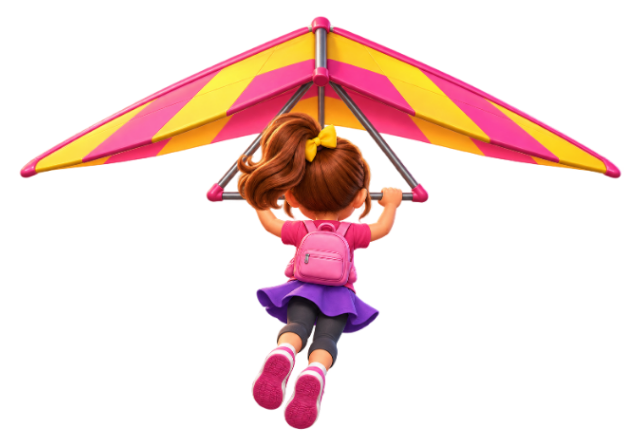
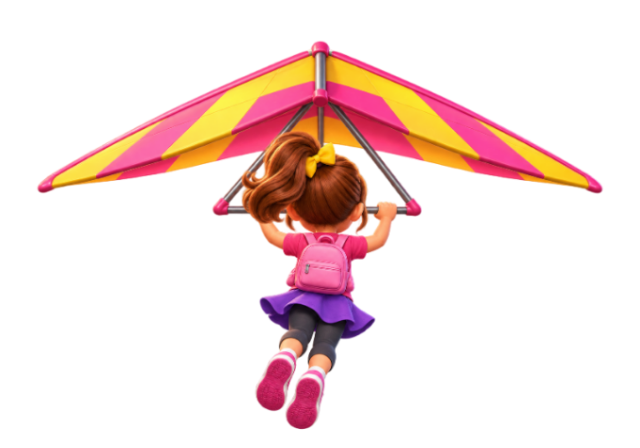
runner: turbo pickup (5 s super speed, every coin double, streaks and glow), jungle liana swings over a ravine in two stretches, no more sun shafts in the jungle, hero cards run on the level's floor, the girl a touch smaller
Claude-Session: https://claude.ai/code/session_01JtiWPMo1Ad6AaJa51j3FBT

Changed region(s): [[0.0312, 0.0312, 0.9688, 0.9688], [0.375, 0.8438, 0.4062, 0.9062]]

diff --git a/assets/games/jungle/renderer.js b/assets/games/jungle/renderer.js
@@ -14,27 +14,28 @@ import {CAMERA,travel,project,itemDepth,sceneryDepth} from './world.js';
 
 export const HEROES=['boy','girl'];
 export const LEVELS={
- jungle:{scenes:['jungle-watervallen','jungle-tempel','jungle-avond'],night:scene=>scene==='jungle-avond',shoulder:'grass',sky:['#83d4db','#082936'],rays:true,dust:'#d9c39b',
+ jungle:{scenes:['jungle-watervallen','jungle-tempel','jungle-avond'],night:scene=>scene==='jungle-avond',shoulder:'grass',sky:['#83d4db','#082936'],rays:false,sun:true,dust:'#d9c39b',air:{kind:'swing',windows:[[.30,.41],[.70,.81]]},
   obstacles:{log:'obstacle-log',rock:'obstacle-rock'},card:'collectible-jungle-card',cardId:'jungle-leaf',pebbles:true,flowers:true,dapples:true,
   props:[{name:'scenery-fern',spacing:3.2,x:[1.78,1.98],w:[1.5,2.1]},{name:'scenery-tree',spacing:6.4,offset:.7,x:[3.15,3.65],w:[4.5,5.5]}]},
  stad:{scenes:['city-day'],night:()=>false,shoulder:'pavement',sky:['#9fd0f5'],rays:false,dust:'#c9c9cf',
   obstacles:{log:'obstacle-barrier',rock:'obstacle-cone'},card:'collectible-city-card',cardId:'city-star',pebbles:false,flowers:false,dapples:false,
   props:[{name:'scenery-lamp',spacing:4.8,x:[1.85,1.85],w:[1.4,1.4]},{name:'scenery-building',spacing:5.6,offset:1.1,x:[4.2,5.4],w:[6.5,9]},{name:'scenery-tree-city',spacing:9.6,offset:2.9,x:[2.6,2.9],w:[2.6,3.2]}]},
- lucht:{scenes:['sky-day'],night:()=>false,shoulder:'cloud',sky:['#69b4f2'],rays:true,dust:null,glide:true,
+ lucht:{scenes:['sky-day'],night:()=>false,shoulder:'cloud',sky:['#69b4f2'],rays:true,sun:true,dust:null,glide:true,air:{kind:'glide',windows:[[.22,.46],[.66,.88]]},
   obstacles:{log:'obstacle-bird',rock:'obstacle-storm'},card:'collectible-sky-card',cardId:'sky-feather',pebbles:false,flowers:false,dapples:false,
   props:[{name:'scenery-cloud',spacing:3.6,x:[2.2,3.4],w:[2.4,4],float:true},{name:'scenery-balloon',spacing:15,offset:3,x:[3.6,5.2],w:[2.1,2.9],float:true,lift:[1.8,3.4]},{name:'scenery-island',spacing:14,offset:7,x:[4,6],w:[5,7],float:true,lift:[-.4,.4]}]},
 };
-// Where the sky level lets go of the cloud path (fractions of the run, by distance).
-export const GLIDE_WINDOWS=[[.22,.46],[.66,.88]];
+// Stretches where the path lets go (fractions of the run, by distance): the sky
+// level hands the child a glider, the jungle a liana to swing on.
 export const progress=s=>s.distance/(s.duration*(s.easy?.26:.31));
-export const isGliding=(level,s)=>!!LEVELS[level]?.glide&&GLIDE_WINDOWS.some(([a,b])=>progress(s)>=a&&progress(s)<b);
+export const airborne=(level,s)=>{const air=LEVELS[level]?.air;if(!air)return null;const p=progress(s);return air.windows.some(([a,b])=>p>=a&&p<b)?air.kind:null;};
+export const isGliding=(level,s)=>!!airborne(level,s);
 
 // Every painting a level + hero needs, and what stands in for one that is not
 // there yet (the jungle set and the boy always exist).
 const FALLBACK={'city-day':'jungle-tempel','sky-day':'jungle-watervallen','obstacle-barrier':'obstacle-log','obstacle-cone':'obstacle-rock','obstacle-bird':'obstacle-log','obstacle-storm':'obstacle-rock','scenery-lamp':'scenery-tree','scenery-building':'scenery-tree','scenery-tree-city':'scenery-tree','scenery-cloud':'scenery-fern','scenery-balloon':'scenery-tree','scenery-island':'scenery-bridge','collectible-city-card':'collectible-jungle-card','collectible-sky-card':'collectible-jungle-card'};
-export function assetNames(level,hero){const L=LEVELS[level];const names=new Set([...L.scenes,L.obstacles.log,L.obstacles.rock,L.card,'collectible-coin',...L.props.map(p=>p.name)]);for(const f of ['run-01','run-02','run-03','run-04','jump','flip','glide'])names.add(`hero-${hero}-${f}`);for(const n of [...names])if(FALLBACK[n])names.add(FALLBACK[n]);if(hero!=='boy')for(const f of ['run-01','run-02','run-03','run-04','jump','flip','glide'])names.add(`hero-boy-${f}`);names.add('hero-boy-jump');names.add('hero-boy-run-02');names.add('hero-girl-run-02');for(const l of Object.values(LEVELS))names.add(l.scenes[0]);names.add('hero-boy-portrait');names.add('hero-girl-portrait');return [...names];}
+export function assetNames(level,hero){const L=LEVELS[level];const names=new Set([...L.scenes,L.obstacles.log,L.obstacles.rock,L.card,'collectible-coin',...L.props.map(p=>p.name)]);for(const f of ['run-01','run-02','run-03','run-04','jump','flip','glide','swing'])names.add(`hero-${hero}-${f}`);for(const n of [...names])if(FALLBACK[n])names.add(FALLBACK[n]);if(hero!=='boy')for(const f of ['run-01','run-02','run-03','run-04','jump','flip','glide','swing'])names.add(`hero-boy-${f}`);names.add('hero-boy-jump');names.add('hero-boy-run-02');names.add('hero-girl-run-02');for(const l of Object.values(LEVELS))names.add(l.scenes[0]);names.add('hero-boy-portrait');names.add('hero-girl-portrait');return [...names];}
 // The painting that stands in for a missing one: a girl frame → the boy's, a level prop → its jungle cousin, a glide pose → the jump pose.
-export function resolveName(name,cache){if(cache[name]||(manifest&&manifest.has(name)))return name;if(FALLBACK[name]&&cache[FALLBACK[name]])return FALLBACK[name];const m=name.match(/^hero-girl-(.+)$/);if(m&&cache['hero-boy-'+m[1]])return 'hero-boy-'+m[1];if(/^hero-.+-glide$/.test(name)){const j=name.replace('glide','jump');return cache[j]?j:'hero-boy-jump';}if(/^hero-.+-portrait$/.test(name)){const j=name.replace('portrait','run-02');return cache[j]?j:'hero-boy-run-02';}return name;}
+export function resolveName(name,cache){if(cache[name]||(manifest&&manifest.has(name)))return name;if(FALLBACK[name]&&cache[FALLBACK[name]])return FALLBACK[name];const m=name.match(/^hero-girl-(.+)$/);if(m&&cache['hero-boy-'+m[1]])return 'hero-boy-'+m[1];if(/^hero-.+-(glide|swing)$/.test(name)){const j=name.replace(/glide|swing/,'jump');return cache[j]?j:'hero-boy-jump';}if(/^hero-.+-portrait$/.test(name)){const j=name.replace('portrait','run-02');return cache[j]?j:'hero-boy-run-02';}return name;}
 const one=src=>new Promise((resolve,reject)=>{const im=new Image();im.onload=()=>resolve(im);im.onerror=()=>reject(new Error('Afbeelding kon niet laden: '+src));im.src=src;});
 // img/manifest.json lists the paintings that exist, so a level whose art is not
 // finished asks for nothing that is missing (no 404s) and takes its stand-ins at once.
@@ -71,9 +72,9 @@ export class Renderer{
  night(name){if(!/^(scenery|obstacle)-/.test(name))return this.images[name];this.nightImages??={};if(this.nightImages[name])return this.nightImages[name];const im=this.images[name],c=document.createElement('canvas');c.width=im.width;c.height=im.height;const g=c.getContext('2d');g.drawImage(im,0,0);g.globalCompositeOperation='source-atop';g.fillStyle='#0a2740';g.globalAlpha=.5;g.fillRect(0,0,c.width,c.height);return this.nightImages[name]=c;}
  image(name,x,y,w,angle=0,alpha=1){const im=this.isNight?this.night(name):this.images[name];if(!im)return;const g=this.g,h=w*im.height/im.width*(this.canvas.width/600)/(this.canvas.height/900);g.save();g.globalAlpha=alpha;g.translate(x,y);g.rotate(angle);g.drawImage(im,-w/2,-h,w,h);g.restore();}
  flip(x,bottom,width,remaining,alpha){const g=this.g,im=this.images[`hero-${this.hero}-flip`],frame=flipFrame(remaining),cw=im.width/4,ch=im.height/2;const h=width*ch/cw*(this.canvas.width/600)/(this.canvas.height/900);g.save();g.globalAlpha=alpha;g.drawImage(im,(frame%4)*cw,Math.floor(frame/4)*ch,cw,ch,x-width/2,bottom-h,width,h);g.restore();}
- event(e){const p=this.point(e.lane??1,1);if(['coin','gold','combo','card','clear','magnet','shield','block','double'].includes(e.type)){const label=this.labelFor?.(e)??({coin:`+${e.value??1}`,gold:`+${e.value??5} GOUD!`,combo:`COMBO +5`,card:'Kaart ontdekt!',clear:'Mooie sprong!',magnet:'MAGNEET!',shield:'SCHILD!',block:'Gered!',double:'DUBBELE MUNTEN!'})[e.type];this.labels.push({x:p.x,y:p.y-160,text:label,life:1});if(!this.reduced)for(let i=0;i<9;i++){const a=i*2.4;this.particles.push({x:p.x,y:p.y-55,vx:Math.cos(a)*80,vy:Math.sin(a)*85-50,life:.65,color:e.type==='card'?'#a2f7ff':'#ffe58e'});}}}
+ event(e){const p=this.point(e.lane??1,1);if(['coin','gold','combo','card','clear','magnet','shield','block','double','speed'].includes(e.type)){const label=this.labelFor?.(e)??({coin:`+${e.value??1}`,gold:`+${e.value??5} GOUD!`,combo:`COMBO +5`,card:'Kaart ontdekt!',clear:'Mooie sprong!',magnet:'MAGNEET!',shield:'SCHILD!',block:'Gered!',double:'DUBBELE MUNTEN!',speed:'TURBO!'})[e.type];this.labels.push({x:p.x,y:p.y-160,text:label,life:1});if(!this.reduced)for(let i=0;i<9;i++){const a=i*2.4;this.particles.push({x:p.x,y:p.y-55,vx:Math.cos(a)*80,vy:Math.sin(a)*85-50,life:.65,color:e.type==='card'?'#a2f7ff':'#ffe58e'});}}}
 
- drawWorld(s,dt){const g=this.g,L=LEVELS[this.level],bg=this.images[this.scene],distance=travel(s),night=this.isNight,gliding=isGliding(this.level,s);
+ drawWorld(s,dt){const g=this.g,L=LEVELS[this.level],bg=this.images[this.scene],distance=travel(s),night=this.isNight,air=airborne(this.level,s),gliding=!!air;
  // a new bend every few seconds, eased; the run starts straight
  if(s.time>this.nextBend){this.nextBend=s.time+4+Math.random()*4;this.curveTarget=s.time<2?0:(Math.random()-.5)*.07;}
  this.curve+=(this.curveTarget-this.curve)*(1-Math.exp(-dt*.8));
@@ -93,7 +94,12 @@ export class Renderer{
   }
   g.restore();
  }
- if(blend>0){ // gliding: open sky below, with cloud puffs drifting far beneath
+ if(blend>0&&L.air?.kind==='swing'){ // swinging: a ravine below, mist rising from it
+  g.save();g.globalAlpha=blend;const deep=g.createLinearGradient(0,310,0,900);deep.addColorStop(0,night?'#0b241c':'#2f6b3a');deep.addColorStop(.35,night?'#06160f':'#1b3f22');deep.addColorStop(1,night?'#020806':'#0a1a0e');g.fillStyle=deep;g.fillRect(0,310,600,590);
+  for(let i=0;i<10;i++){const depth=sceneryDepth(i,4.2,distance*.5,i*1.7);if(depth>50||depth<1)continue;const p=project(Math.sin(i*2.3)*3.2,depth);p.x+=this.off(depth);g.fillStyle=night?'#8fd0c0':'#dff5e6';g.globalAlpha=blend*.35*Math.min(1,(52-depth)/12);g.beginPath();g.ellipse(p.x,p.y+p.scale*.6,p.scale*.9,p.scale*.2,0,0,7);g.fill();}
+  g.restore();
+ }
+ else if(blend>0){ // gliding: open sky below, with cloud puffs drifting far beneath
   g.save();g.globalAlpha=blend;const deep=g.createLinearGradient(0,310,0,900);deep.addColorStop(0,'#8fc6f3');deep.addColorStop(1,'#d8ecfd');g.fillStyle=deep;g.fillRect(0,310,600,590);
   for(let i=0;i<14;i++){const depth=sceneryDepth(i,5.5,distance*.6,i*1.3);if(depth>60||depth<1)continue;const p=project(Math.sin(i*2.7)*4.5,depth);p.x+=this.off(depth);g.fillStyle='#ffffff';g.globalAlpha=blend*.8*Math.min(1,(62-depth)/12);g.beginPath();g.ellipse(p.x,p.y+p.scale*.9,p.scale*.7,p.scale*.22,0,0,7);g.ellipse(p.x+p.scale*.35,p.y+p.scale*.82,p.scale*.4,p.scale*.2,0,0,7);g.fill();}
   g.restore();
@@ -117,37 +123,43 @@ export class Renderer{
  for(const o of props.sort((a,b)=>b.depth-a.depth)){const p=project(o.x,o.depth);p.x+=this.off(o.depth);this.image(o.name,p.x,p.y-o.lift*p.scale,o.width*p.scale,0,Math.min(1,(70-o.depth)/12,(o.depth-.3)/.5));}
  // light: sun shafts by day, moon glow by night; distance haze hides the recycle boundary
  if(night){const moon=g.createRadialGradient(470,70,4,470,70,190);moon.addColorStop(0,'#d8f3ff55');moon.addColorStop(.35,'#7fc6ff1c');moon.addColorStop(1,'#00000000');g.fillStyle=moon;g.fillRect(200,0,400,320);}
- else if(L.rays){g.save();g.globalCompositeOperation='lighter';for(let i=0;i<4;i++){const x0=120+i*95+Math.sin(s.time*.35+i)*10,ray=g.createLinearGradient(0,0,0,560);ray.addColorStop(0,'#fff6c0'+(i%2?'2a':'20'));ray.addColorStop(1,'#fff6c000');g.fillStyle=ray;g.beginPath();g.moveTo(x0,-10);g.lineTo(x0+26,-10);g.lineTo(x0+150,560);g.lineTo(x0+40,560);g.closePath();g.fill();}
-  const sun=g.createRadialGradient(560,30,6,560,30,230);sun.addColorStop(0,'#ffffff8c');sun.addColorStop(.3,'#ffe8a044');sun.addColorStop(1,'#ffe8a000');g.fillStyle=sun;g.fillRect(250,0,350,300);g.restore();}
+ else if(L.rays||L.sun){g.save();g.globalCompositeOperation='lighter';if(L.rays)for(let i=0;i<4;i++){const x0=120+i*95+Math.sin(s.time*.35+i)*10,ray=g.createLinearGradient(0,0,0,560);ray.addColorStop(0,'#fff6c0'+(i%2?'2a':'20'));ray.addColorStop(1,'#fff6c000');g.fillStyle=ray;g.beginPath();g.moveTo(x0,-10);g.lineTo(x0+26,-10);g.lineTo(x0+150,560);g.lineTo(x0+40,560);g.closePath();g.fill();}
+  if(L.sun){const sun=g.createRadialGradient(560,30,6,560,30,230);sun.addColorStop(0,'#ffffff8c');sun.addColorStop(.3,'#ffe8a044');sun.addColorStop(1,'#ffe8a000');g.fillStyle=sun;g.fillRect(250,0,350,300);}g.restore();}
  const fogC=night?'#073e4b':L.shoulder==='pavement'?'#d7e3ee':L.shoulder==='cloud'?'#e6f2ff':'#bdeadd';
  const fog=g.createLinearGradient(0,280,0,440);fog.addColorStop(0,fogC+'00');fog.addColorStop(.22,fogC+'66');fog.addColorStop(1,'#ffffff00');g.fillStyle=fog;g.fillRect(0,280,600,160);
- return {gliding,blend};
+ return {gliding,blend,air};
  }
 
  draw(s,dt,active){const g=this.g,L=LEVELS[this.level];g.setTransform(this.canvas.width/600,0,0,this.canvas.height/900,0,0);
- const {gliding,blend}=this.drawWorld(s,dt);
+ const {gliding,blend,air}=this.drawWorld(s,dt);
  const shade=g.createLinearGradient(0,0,0,900);shade.addColorStop(0,'#07284266');shade.addColorStop(.2,'#00000000');shade.addColorStop(.8,'#00000000');shade.addColorStop(1,'#082c4833');g.fillStyle=shade;g.fillRect(0,0,600,900);
  if(!this.reduced){for(let i=0;i<14;i++){const t=s.time*.17+i*2.7,x=(Math.sin(t*.8)*.5+.5)*580,y=180+(i*79+s.time*11)%580;g.fillStyle=this.isNight?'#fff3a0':'#ffffc1';g.globalAlpha=.2+.2*Math.sin(t);g.beginPath();g.arc(x,y,this.isNight?2.5:1.6,0,Math.PI*2);g.fill();}g.globalAlpha=1;}
  const hero=this.hero,liftPx=blend*150; // while gliding the hero and the flying obstacles hang above the (missing) path
  const player=()=>{const p=this.point(s.x,1),jump=height(s),land=s.jump>0?0:Math.sin(s.time*19)*(this.reduced||gliding?0:2);
   if(blend<1){g.fillStyle='#2c27143b';g.globalAlpha=1-blend;g.beginPath();g.ellipse(p.x,p.y+4,39-jump*10,10-jump*3,0,0,7);g.fill();g.globalAlpha=1;}
   const step=Math.floor(s.distance*27);if(active&&!this.reduced&&L.dust&&!gliding&&s.jump<=0&&step!==this.lastStep){this.lastStep=step;for(let i=0;i<3;i++)this.particles.push({x:p.x+(Math.random()-.5)*36,y:p.y+2,vx:(Math.random()-.5)*40,vy:20+Math.random()*40,life:.5,r:5+Math.random()*5,color:L.dust});}
+  const sway=air==='swing'?Math.sin(s.time*2.1)*.22:0;
   const alpha=s.cooldown>.15?.72:1,bottom=p.y+17-jump*137-liftPx+(gliding?Math.sin(s.time*1.6)*10:0)+land;
-  if(gliding){this.image(`hero-${hero}-glide`,p.x,bottom,236,clampTilt(s)*1.6+this.curve*.6,alpha);}
+  if(air==='swing'){ // the liana: from high above the screen down to the hero's hands, swinging with the hero
+   const hx=p.x+Math.sin(s.time*2.1)*26,top={x:p.x-Math.sin(s.time*2.1)*60,y:-40},hand={x:hx,y:bottom-235};g.save();g.strokeStyle=this.isNight?'#3c5a2a':'#5c7a2f';g.lineWidth=9;g.lineCap='round';g.beginPath();g.moveTo(top.x,top.y);g.quadraticCurveTo(top.x+(hand.x-top.x)*.4,top.y+(hand.y-top.y)*.55,hand.x,hand.y);g.stroke();g.strokeStyle=this.isNight?'#5a7d3a':'#8fb23f';g.lineWidth=4;g.stroke();g.restore();
+   this.image(`hero-${hero}-swing`,hx,bottom,211,sway,alpha);}
+  else if(gliding){this.image(`hero-${hero}-glide`,p.x,bottom,236,clampTilt(s)*1.6+this.curve*.6,alpha);}
   else if(s.jump>0&&!this.reduced)this.flip(p.x,bottom,211,s.jump,alpha);
   else this.image(s.jump>0?`hero-${hero}-jump`:`hero-${hero}-run-0${1+Math.floor(s.distance*27)%4}`,p.x,bottom,211,clampTilt(s)+this.curve*.4,alpha);
   if(s.shield)shieldAura(g,p.x,p.y-85-jump*137-liftPx,74,116,s.time,this.reduced);
   if(s.magnet>0)magnetAura(g,p.x,p.y-4-liftPx,s.time,this.reduced);};
  let drawn=false;
  for(const o of [...s.items].sort((a,b)=>a.z-b.z)){if(o.z<0||itemDepth(o.z)<.8)continue;if(o.z>1&&!drawn){player();drawn=true;}if(o.resolved&&!['rock','log'].includes(o.kind))continue;
-  const p=this.point(o.lane,o.z);const flies=L.glide&&(gliding||o.kind==='log');const raise=flies?(gliding?liftPx:70)*4/itemDepth(o.z):0; // nearer things are lifted more on screen
+  const p=this.point(o.lane,o.z);const flies=gliding||(L.glide&&o.kind==='log');const raise=flies?(gliding?liftPx:70)*4/itemDepth(o.z):0; // nearer things are lifted more on screen
   if(s.magnet>0&&['coin','gold'].includes(o.kind)&&o.z>.58){const pull=Math.min(1,(o.z-.58)/.21),target=this.point(s.x,1);p.x+=(target.x-p.x)*pull;p.y+=(target.y-45-p.y)*pull;}
   p.y-=raise;
-  if(['magnet','shield','gold','double'].includes(o.kind)){badge(g,o.kind,p.x,p.y-p.scale*.2,p.scale*.45,s.time);continue;}
+  if(['magnet','shield','gold','double','speed'].includes(o.kind)){badge(g,o.kind,p.x,p.y-p.scale*.2,p.scale*.45,s.time);continue;}
   const width=p.scale*(o.kind==='coin'?.30:o.kind==='card'?.42:.73);const name=o.kind==='coin'?'collectible-coin':o.kind==='card'?L.card:L.obstacles[o.kind];const lift=o.kind==='coin'?p.scale*.24:0;
   if(o.kind==='coin'||o.kind==='card'){g.save();g.shadowColor=o.kind==='coin'?'#ffe590':'#b988ff';g.shadowBlur=this.reduced?0:12;this.image(name,p.x,p.y-lift,width,this.reduced?0:Math.sin(s.time*2+o.z)*.05);g.restore();if(o.kind==='coin'&&!this.reduced&&((s.time*1.6+o.z*7)%1)<.18){const r=width*.55,cx=p.x+width*.28,cy=p.y-lift-width*.95;g.fillStyle='#ffffffd9';g.beginPath();g.moveTo(cx,cy-r);g.quadraticCurveTo(cx,cy,cx+r,cy);g.quadraticCurveTo(cx,cy,cx,cy+r);g.quadraticCurveTo(cx,cy,cx-r,cy);g.quadraticCurveTo(cx,cy,cx,cy-r);g.fill();}}
   else{if(!flies){g.fillStyle='#1f200b40';g.beginPath();g.ellipse(p.x,p.y,width*.43,width*.09,0,0,7);g.fill();}const bob=flies&&!this.reduced?Math.sin(s.time*6+o.lane)*p.scale*.03:0;this.image(name,p.x,p.y+bob,width,flies&&o.kind==='log'?Math.sin(s.time*9)*.06:0);}}
  if(!drawn)player();
+ // turbo: speed streaks racing in from the edges and a warm glow
+ if(s.boost>0&&!this.reduced){g.save();g.globalCompositeOperation='lighter';const k=Math.min(1,s.boost/.6);for(let i=0;i<26;i++){const a=(i/26)*Math.PI*2+Math.sin(i*7.3)*.2,r0=170+((s.time*1100+i*137)%460),len=120+(i%4)*50,x0=300+Math.cos(a)*r0,y0=480+Math.sin(a)*r0*.8,x1=300+Math.cos(a)*(r0+len),y1=480+Math.sin(a)*(r0+len)*.8;const grad=g.createLinearGradient(x0,y0,x1,y1);grad.addColorStop(0,'#fff2a000');grad.addColorStop(1,`rgba(255,240,160,${(.85*k).toFixed(2)})`);g.strokeStyle=grad;g.lineWidth=4;g.beginPath();g.moveTo(x0,y0);g.lineTo(x1,y1);g.stroke();}const glow=g.createRadialGradient(300,560,80,300,560,520);glow.addColorStop(0,'#ffb04000');glow.addColorStop(1,`rgba(255,150,40,${(.28*k).toFixed(2)})`);g.fillStyle=glow;g.fillRect(0,0,600,900);g.restore();}
  for(const p of this.particles){if(active){p.life-=dt;p.x+=p.vx*dt;p.y+=p.vy*dt;p.vy+=140*dt;}g.globalAlpha=Math.max(0,p.life/.65)*(p.r?.55:1);g.fillStyle=p.color;if(p.r){g.beginPath();g.arc(p.x,p.y,p.r*(1.6-p.life),0,7);g.fill();}else g.fillRect(p.x,p.y,4,4);}g.globalAlpha=1;this.particles=this.particles.filter(p=>p.life>0);
  for(const p of this.labels){if(active){p.life-=dt;p.y-=35*dt;}g.globalAlpha=Math.min(1,Math.max(0,p.life*2));g.font='900 23px system-ui';g.textAlign='center';g.lineWidth=4;g.strokeStyle='#63491a';g.strokeText(p.text,p.x,p.y);g.fillStyle='#fff4b4';g.fillText(p.text,p.x,p.y);}g.globalAlpha=1;this.labels=this.labels.filter(p=>p.life>0);
  }

diff --git a/assets/games/jungle/game.js b/assets/games/jungle/game.js
@@ -5,7 +5,7 @@
 // comes from `options.text` (the host's language table); the Dutch strings
 // below are only the fallback for the standalone build.
 import {createRun,move,jump,step,result} from './engine.js';
-import {Renderer,loadAssets,assetNames,resolveName,LEVELS,HEROES,isGliding} from './renderer.js';
+import {Renderer,loadAssets,assetNames,resolveName,LEVELS,HEROES,airborne} from './renderer.js';
 import {GameAudio} from './audio.js';
 
 const escapeText=value=>String(value).replace(/[&<>"']/g,c=>({'&':'&amp;','<':'&lt;','>':'&gt;','"':'&quot;',"'":'&#39;'}[c]));
@@ -14,7 +14,7 @@ const img=name=>new URL('./img/'+name+'.png',import.meta.url).href;
 const LEVEL_IDS=Object.keys(LEVELS);
 
 export const TEXT={
-  brand:'KWIZILLO RUNNER',eyebrow:'KWIZILLO • ARCADE',title:'Runner',titleA:'Kwizillo',titleB:'Runner',levelLabel:'KIES JE LEVEL',heroLabel:'WIE RENT ER MEE?',heroBoy:'Jongen',heroGirl:'Meisje',glideOn:'Vlieg!',glideOff:'Rennen!',
+  brand:'KWIZILLO RUNNER',eyebrow:'KWIZILLO • ARCADE',title:'Runner',titleA:'Kwizillo',titleB:'Runner',levelLabel:'KIES JE LEVEL',heroLabel:'WIE RENT ER MEE?',heroBoy:'Jongen',heroGirl:'Meisje',glideOn:'Vlieg!',glideOff:'Rennen!',swingOn:'Slingeren!',swingOff:'Rennen!',
   canvasLabel:'Spelveld. Pijltjes links en rechts om te sturen. Spatie om te springen.',
   pause:'Pauzeren',sound:'Geluid aan of uit',controls:'Spelbesturing',left:'Naar links',right:'Naar rechts',jump:'Salto ↑',
   loading:'Je avontuur wordt klaargezet…',loadErrorTitle:'Even opnieuw',loadError:'De junglebeelden konden niet laden. Controleer je verbinding en probeer het opnieuw.',
@@ -26,12 +26,12 @@ export const TEXT={
   countFollow:'Volg de munten!',countReady:'Klaar voor avontuur?',
   pauseEyebrow:'EVEN OP ADEM KOMEN',pauseTitle:'Jouw jungle<br>wacht op je.',pauseBody:'De tijd staat stil.',resume:'Verder spelen →',exit:'Rit verlaten zonder beloning',
   hit:'Oeps! Gewoon weer verder — je munten blijven.',cardFound:'Een junglekaart ontdekt!',
-  powerDouble:'×2 {n}s',powerMagnet:'🧲 {n}s',powerShield:'🛡 Beschermd',powerStreak:'★ {n} op rij',
-  popDouble:'BONUSSTER!',popDoubleSub:'6 seconden dubbele munten',popGold:'GOUD GEVONDEN!',popGoldSub:'+{n} munten',
+  powerDouble:'×2 {n}s',powerMagnet:'🧲 {n}s',powerSpeed:'⚡ {n}s',powerShield:'🛡 Beschermd',powerStreak:'★ {n} op rij',
+  popDouble:'BONUSSTER!',popDoubleSub:'6 seconden dubbele munten',popSpeed:'TURBO!',popSpeedSub:'5 seconden supersnel · dubbele munten',popGold:'GOUD GEVONDEN!',popGoldSub:'+{n} munten',
   popCombo:'{n} OP RIJ!',popComboSub:'+5 combo-bonus',popMagnet:'MUNTMAGNEET!',popMagnetSub:'7 seconden munten aantrekken',
   popShield:'BESCHERMSCHILD!',popShieldSub:'Vangt één botsing op',popBlock:'SCHILD REDT JE!',popBlockSub:'Lekker doorrennen',
   popCard:'KAART GEVONDEN!',popCardSub:'Onthulling bij de finish',popClear:'MOOIE SPRONG!',popClearSub:'Over de boomstam',
-  labelGold:'+{n} GOUD!',labelCombo:'COMBO +5',labelCard:'Kaart ontdekt!',labelClear:'Mooie sprong!',labelMagnet:'MAGNEET!',labelShield:'SCHILD!',labelBlock:'Gered!',labelDouble:'DUBBELE MUNTEN!',
+  labelGold:'+{n} GOUD!',labelCombo:'COMBO +5',labelSpeed:'TURBO!',labelCard:'Kaart ontdekt!',labelClear:'Mooie sprong!',labelMagnet:'MAGNEET!',labelShield:'SCHILD!',labelBlock:'Gered!',labelDouble:'DUBBELE MUNTEN!',
   saving:'Je beloning wordt doorgegeven…',saved:'Je beloning is opgeslagen.',savedNoHost:'Je rit is klaar. Koppel onComplete om beloningen op te slaan.',saveError:'Opslaan lukte nog niet. Probeer het opnieuw.',
   finishEyebrow:'AVONTUUR VOLTOOID',finish:'FINISH!',finishSub:'Jouw buit uit de jungle',coinsEarned:'munten verdiend',bestStreak:'Beste reeks',bonusCoins:'Bonusmunten',
   cardAlt:'Verzamelde kaart',cardEyebrow:'KAART ONTDEKT',cardSub:'Voor je Kwizillo-verzameling',cardTitle:'Jungleblad',
@@ -71,7 +71,7 @@ export class KwizilloJungle extends HTMLElement{
    if(!this.alive)return;
    this.renderer=new Renderer(this.canvas,images,{level:this.level,hero:this.heroKind});
    this.renderer.reduced=this.options.reducedMotion??matchMedia('(prefers-reduced-motion: reduce)').matches;
-   this.renderer.labelFor=e=>({coin:`+${e.value??1}`,gold:this.t('labelGold',{n:e.value??5}),combo:this.t('labelCombo'),card:this.t('labelCard'),clear:this.t('labelClear'),magnet:this.t('labelMagnet'),shield:this.t('labelShield'),block:this.t('labelBlock'),double:this.t('labelDouble')})[e.type];
+   this.renderer.labelFor=e=>({coin:`+${e.value??1}`,gold:this.t('labelGold',{n:e.value??5}),combo:this.t('labelCombo'),speed:this.t('labelSpeed'),card:this.t('labelCard'),clear:this.t('labelClear'),magnet:this.t('labelMagnet'),shield:this.t('labelShield'),block:this.t('labelBlock'),double:this.t('labelDouble')})[e.type];
    this.root.querySelector('.game').classList.toggle('reduced',this.renderer.reduced);
    this.run=createRun(this.options);
    this.home();
@@ -165,12 +165,12 @@ export class KwizilloJungle extends HTMLElement{
    if(this.popupUntil&&this.run.time>=this.popupUntil)this.root.querySelector('.arcade-pop').classList.remove('show');
   }
   const powers=this.root.querySelector('.powers');powers.hidden=this.phase!=='playing';
-  const powerText=[this.run.double>0&&this.t('powerDouble',{n:Math.ceil(this.run.double)}),this.run.magnet>0&&this.t('powerMagnet',{n:Math.ceil(this.run.magnet)}),this.run.shield&&this.t('powerShield'),this.run.streak&&this.t('powerStreak',{n:this.run.streak})].filter(Boolean).join(' · ');
+  const powerText=[this.run.boost>0&&this.t('powerSpeed',{n:Math.ceil(this.run.boost)}),this.run.double>0&&this.t('powerDouble',{n:Math.ceil(this.run.double)}),this.run.magnet>0&&this.t('powerMagnet',{n:Math.ceil(this.run.magnet)}),this.run.shield&&this.t('powerShield'),this.run.streak&&this.t('powerStreak',{n:this.run.streak})].filter(Boolean).join(' · ');
   if(powers.textContent!==powerText)powers.textContent=powerText;
   this.root.querySelector('.arcade-pop').hidden=this.phase!=='playing';
   if(this.phase==='finished'){const count=this.root.querySelector('[data-count]');if(count){const p=this.renderer.reduced?1:Math.min(1,(t-this.finishStarted)/1400),n=Math.floor(this.run.coins*(1-Math.pow(1-p,3)));count.textContent='+'+n;if(n!==this.finishCount){this.finishCount=n;if(p<1&&Math.floor(t/80)!==this.lastCountTone){this.lastCountTone=Math.floor(t/80);this.audio.play('count');}}}}
   this.audio.updateMusic(this.phase==='playing');
-  if(this.phase==='playing'&&LEVELS[this.level].glide){const g=isGliding(this.level,this.run);if(g!==this.wasGliding){this.wasGliding=g;if(this.run.time>1)this.toast(this.t(g?'glideOn':'glideOff'));}}
+  if(this.phase==='playing'&&LEVELS[this.level].air){const kind=airborne(this.level,this.run),g=!!kind;if(g!==this.wasGliding){this.wasGliding=g;const k=LEVELS[this.level].air.kind;if(this.run.time>1)this.toast(this.t(g?(k==='swing'?'swingOn':'glideOn'):(k==='swing'?'swingOff':'glideOff')));}}
   this.renderer.draw(this.run,dt,this.phase==='playing');
   this.root.querySelector('.score b').textContent=this.run.coins;
   this.root.querySelector('.score small').textContent=`0:${String(Math.ceil(this.run.duration-this.run.time)).padStart(2,'0')}`;
@@ -189,7 +189,7 @@ export class KwizilloJungle extends HTMLElement{
  }
  arcadeEvent(e){
   if(['coin','gold','combo'].includes(e.type)&&!this.renderer.reduced)this.root.querySelector('.score').animate([{transform:'scale(1.16)'},{transform:'scale(1)'}],{duration:180});
-  const key={double:'Double',gold:'Gold',combo:'Combo',magnet:'Magnet',shield:'Shield',block:'Block',card:'Card',clear:'Clear'}[e.type];
+  const key={double:'Double',gold:'Gold',combo:'Combo',magnet:'Magnet',shield:'Shield',block:'Block',card:'Card',clear:'Clear',speed:'Speed'}[e.type];
   if(!key)return;
   const vars={n:e.type==='gold'?(e.value??5):e.streak};
   const pop=this.root.querySelector('.arcade-pop');

diff --git a/assets/games/jungle/engine.js b/assets/games/jungle/engine.js
@@ -1,19 +1,21 @@
 export const clamp=(n,a,b)=>Math.max(a,Math.min(b,n));
 export function random(seed){let s=seed>>>0;return()=>{s+=0x6D2B79F5;let t=s;t=Math.imul(t^t>>>15,t|1);t^=t+Math.imul(t^t>>>7,t|61);return((t^t>>>14)>>>0)/4294967296;};}
-export function createRun({duration=40,easy=false,seed=Date.now()}={}){return {duration:clamp(Number(duration)||40,30,45),easy,seed,random:random(seed),time:0,distance:0,lane:1,x:1,jump:0,buffer:0,cooldown:0,coins:0,collectedCard:false,items:[],nextRow:.5,row:0,done:false,hits:0,streak:0,bestStreak:0,magnet:0,double:0,doubleCoins:0,shield:0,bonusCoins:0,pickups:0,jumpsCleared:0};}
+export function createRun({duration=40,easy=false,seed=Date.now()}={}){return {duration:clamp(Number(duration)||40,30,45),easy,seed,random:random(seed),time:0,distance:0,lane:1,x:1,jump:0,buffer:0,cooldown:0,coins:0,collectedCard:false,items:[],nextRow:.5,row:0,done:false,hits:0,streak:0,bestStreak:0,magnet:0,double:0,doubleCoins:0,boost:0,boostCoins:0,shield:0,bonusCoins:0,pickups:0,jumpsCleared:0};}
 export function move(s,d){if(!s.done)s.lane=clamp(s.lane+d,0,2);}
 export function jump(s){if(s.done)return false;if(s.jump<=0){s.jump=.92;return true;}s.buffer=.13;return false;}
 export const height=s=>s.jump>0?Math.sin((1-s.jump/.92)*Math.PI):0;
-export function step(s,dt){const events=[];if(s.done)return events;dt=clamp(dt,0,.05);s.time=Math.min(s.duration,s.time+dt);s.cooldown=Math.max(0,s.cooldown-dt);s.magnet=Math.max(0,s.magnet-dt);s.double=Math.max(0,s.double-dt);s.buffer=Math.max(0,s.buffer-dt);const wasJumping=s.jump>0;s.jump=Math.max(0,s.jump-dt);if(wasJumping&&!s.jump)events.push({type:'land'});if(!s.jump&&s.buffer>0){jump(s);s.buffer=0;}s.x+=(s.lane-s.x)*(1-Math.exp(-19*dt));
-const speed=(s.easy?.26:.31)*(s.cooldown>.5?.75:1);s.distance+=speed*dt;
-if(s.time>=s.nextRow&&s.time<s.duration-4.5){s.nextRow+=s.easy?1.65:1.3;s.row++;const lane=Math.floor(s.random()*3);const add=(kind,lane,z=0)=>s.items.push({kind,lane,z,resolved:false});add('coin',lane);add('coin',lane,-.065);add(s.row%5===0?'gold':'coin',lane,-.13);if(s.row===2||s.row===13)add('magnet',lane,-.22);if(s.row===8||s.row===19)add('double',lane,-.22);if(s.row===5||s.row===17)add('shield',lane,-.22);if(s.row>2){const block=(lane+1+Math.floor(s.random()*2))%3;add(s.row%3===0?'rock':'log',block);}if(s.row===9)add('card',(lane+2)%3,-.23);}
+export function step(s,dt){const events=[];if(s.done)return events;dt=clamp(dt,0,.05);s.time=Math.min(s.duration,s.time+dt);s.cooldown=Math.max(0,s.cooldown-dt);s.magnet=Math.max(0,s.magnet-dt);s.double=Math.max(0,s.double-dt);s.boost=Math.max(0,s.boost-dt);s.buffer=Math.max(0,s.buffer-dt);const wasJumping=s.jump>0;s.jump=Math.max(0,s.jump-dt);if(wasJumping&&!s.jump)events.push({type:'land'});if(!s.jump&&s.buffer>0){jump(s);s.buffer=0;}s.x+=(s.lane-s.x)*(1-Math.exp(-19*dt));
+// turbo: five seconds of much faster running (everything comes at you sooner) and every coin counts double
+const speed=(s.easy?.26:.31)*(s.cooldown>.5?.75:1)*(s.boost>0?1.6:1);s.distance+=speed*dt;
+if(s.time>=s.nextRow&&s.time<s.duration-4.5){s.nextRow+=s.easy?1.65:1.3;s.row++;const lane=Math.floor(s.random()*3);const add=(kind,lane,z=0)=>s.items.push({kind,lane,z,resolved:false});add('coin',lane);add('coin',lane,-.065);add(s.row%5===0?'gold':'coin',lane,-.13);if(s.row===2||s.row===13)add('magnet',lane,-.22);if(s.row===8||s.row===19)add('double',lane,-.22);if(s.row===5||s.row===17)add('shield',lane,-.22);if(s.row===11||s.row===21)add('speed',lane,-.22);if(s.row>2){const block=(lane+1+Math.floor(s.random()*2))%3;add(s.row%3===0?'rock':'log',block);}if(s.row===9)add('card',(lane+2)%3,-.23);}
 for(const item of s.items){const before=item.z;item.z+=dt*speed;if(s.easy&&item.kind==='log'&&!item.resolved&&item.z>.86&&item.z<.94&&Math.abs(s.x-item.lane)<.38&&!s.jump){jump(s);events.push({type:'jump'});}const collectible=['coin','gold'].includes(item.kind);
 const attracted=s.magnet>0&&collectible&&item.z>.79;
 if(((before<1&&item.z>=1)||attracted)&&!item.resolved){item.resolved=true;
 if(Math.abs(s.x-item.lane)<.39||attracted){
-if(collectible){const baseValue=item.kind==='gold'?5:1,value=baseValue*(s.double>0?2:1);s.doubleCoins+=value-baseValue;s.coins+=value;s.streak++;s.bestStreak=Math.max(s.bestStreak,s.streak);events.push({type:item.kind,lane:attracted?s.x:item.lane,streak:s.streak,value});if(s.streak%10===0){s.coins+=5;s.bonusCoins+=5;events.push({type:'combo',lane:s.x,value:5,streak:s.streak});}}
+if(collectible){const baseValue=item.kind==='gold'?5:1,doubled=baseValue*(s.double>0?2:1),value=doubled*(s.boost>0?2:1);s.doubleCoins+=doubled-baseValue;s.boostCoins+=value-doubled;s.coins+=value;s.streak++;s.bestStreak=Math.max(s.bestStreak,s.streak);events.push({type:item.kind,lane:attracted?s.x:item.lane,streak:s.streak,value});if(s.streak%10===0){s.coins+=5;s.bonusCoins+=5;events.push({type:'combo',lane:s.x,value:5,streak:s.streak});}}
 else if(item.kind==='magnet'){s.magnet=7;s.pickups++;events.push({type:'magnet',lane:item.lane});}
 else if(item.kind==='double'){s.double=6;s.pickups++;events.push({type:'double',lane:item.lane});}
+else if(item.kind==='speed'){s.boost=5;s.pickups++;events.push({type:'speed',lane:item.lane});}
 else if(item.kind==='shield'){s.shield=1;s.pickups++;events.push({type:'shield',lane:item.lane});}
 else if(item.kind==='card'){s.collectedCard=true;events.push({type:'card',lane:item.lane});}
 else if(item.kind==='log'&&height(s)>.27){s.jumpsCleared++;events.push({type:'clear',lane:item.lane});}
@@ -22,4 +24,4 @@ else if(!s.cooldown){if(s.shield){s.shield=0;s.cooldown=.25;events.push({type:'b
 }}
 
 s.items=s.items.filter(i=>i.z<1.28);if(s.time>=s.duration){s.done=true;events.push({type:'finish'});}return events;}
-export function result(s,runId,theme){return Object.freeze({version:1,game:'jungle-runner',runId,theme,seed:s.seed,coins:s.coins,cardId:s.collectedCard?'jungle-leaf':null,durationMs:Math.round(s.duration*1000),completed:true,stats:Object.freeze({bestStreak:s.bestStreak,bonusCoins:s.bonusCoins,doubleCoins:s.doubleCoins,pickups:s.pickups,jumpsCleared:s.jumpsCleared}),finishedAt:Date.now()});}
+export function result(s,runId,theme){return Object.freeze({version:1,game:'jungle-runner',runId,theme,seed:s.seed,coins:s.coins,cardId:s.collectedCard?'jungle-leaf':null,durationMs:Math.round(s.duration*1000),completed:true,stats:Object.freeze({bestStreak:s.bestStreak,bonusCoins:s.bonusCoins,doubleCoins:s.doubleCoins,boostCoins:s.boostCoins,pickups:s.pickups,jumpsCleared:s.jumpsCleared}),finishedAt:Date.now()});}

diff --git a/i18n.js b/i18n.js
@@ -77,6 +77,7 @@
     'premium.teaser.fotozoom':'Fotozoom in deze wereld hoort bij Kwizillo Premium. Vraag een ouder om alle werelden te openen.',
     'jungle.brand':'KWIZILLO RUNNER','jungle.eyebrow':'KWIZILLO • ARCADE','jungle.titleA':'Kwizillo','jungle.titleB':'Runner','jungle.back':'Terug naar Kwizillo',
     'jungle.levelLabel':'KIES JE LEVEL','jungle.heroLabel':'WIE RENT ER MEE?','jungle.heroBoy':'Jongen','jungle.heroGirl':'Meisje','jungle.glideOn':'Vlieg!','jungle.glideOff':'Rennen!','jungle.levelJungle':'Jungle','jungle.levelStad':'Stad','jungle.levelLucht':'Lucht',
+    'jungle.swingOn':'Slingeren!','jungle.swingOff':'Rennen!','jungle.powerSpeed':'⚡ {n}s','jungle.popSpeed':'TURBO!','jungle.popSpeedSub':'5 seconden supersnel · dubbele munten','jungle.labelSpeed':'TURBO!',
     'jungle.canvasLabel':'Spelveld. Pijltjes links en rechts om te sturen. Spatie om te springen.','jungle.pause':'Pauzeren','jungle.sound':'Geluid aan of uit','jungle.controls':'Spelbesturing','jungle.left':'Naar links','jungle.right':'Naar rechts','jungle.jump':'Salto ↑',
     'jungle.loading':'Je avontuur wordt klaargezet…','jungle.loadErrorTitle':'Even opnieuw','jungle.loadErrorBody':'De junglebeelden konden niet laden. Controleer je verbinding en probeer het opnieuw.',
     'jungle.intro':'Volg het gouden spoor.<br>Spring, ontdek en verzamel!','jungle.legendMagnet':'🧲 Magneet','jungle.legendShield':'🛡 Schild','jungle.legendGold':'★ Goud +5','jungle.legendDouble':'×2 Bonusster',
@@ -537,6 +538,7 @@
     'premium.teaser.fotozoom':'Photo Zoom in this world is part of Kwizillo Premium. Ask a parent to open all the worlds.',
     'jungle.brand':'KWIZILLO RUNNER','jungle.eyebrow':'KWIZILLO • ARCADE','jungle.titleA':'Kwizillo','jungle.titleB':'Runner','jungle.back':'Back to Kwizillo',
     'jungle.levelLabel':'PICK YOUR LEVEL','jungle.heroLabel':'WHO RUNS WITH YOU?','jungle.heroBoy':'Boy','jungle.heroGirl':'Girl','jungle.glideOn':'Fly!','jungle.glideOff':'Run!','jungle.levelJungle':'Jungle','jungle.levelStad':'City','jungle.levelLucht':'Sky',
+    'jungle.swingOn':'Swing!','jungle.swingOff':'Run!','jungle.powerSpeed':'⚡ {n}s','jungle.popSpeed':'TURBO!','jungle.popSpeedSub':'5 seconds super fast · double coins','jungle.labelSpeed':'TURBO!',
     'jungle.canvasLabel':'Playfield. Left and right arrows to steer. Space to jump.','jungle.pause':'Pause','jungle.sound':'Sound on or off','jungle.controls':'Game controls','jungle.left':'Left','jungle.right':'Right','jungle.jump':'Flip ↑',
     'jungle.loading':'Getting your adventure ready…','jungle.loadErrorTitle':'Try again','jungle.loadErrorBody':'The jungle pictures could not load. Check your connection and try again.',
     'jungle.intro':'Follow the golden trail.<br>Jump, explore and collect!','jungle.legendMagnet':'🧲 Magnet','jungle.legendShield':'🛡 Shield','jungle.legendGold':'★ Gold +5','jungle.legendDouble':'×2 Bonus star',
@@ -997,6 +999,7 @@
     'premium.teaser.fotozoom':'Foto Zoom neste mundo faz parte do Kwizillo Premium. Peça a um adulto para liberar todos os mundos.',
     'jungle.brand':'KWIZILLO RUNNER','jungle.eyebrow':'KWIZILLO • ARCADE','jungle.titleA':'Kwizillo','jungle.titleB':'Runner','jungle.back':'Voltar ao Kwizillo',
     'jungle.levelLabel':'ESCOLHA SUA FASE','jungle.heroLabel':'QUEM CORRE COM VOCÊ?','jungle.heroBoy':'Menino','jungle.heroGirl':'Menina','jungle.glideOn':'Voe!','jungle.glideOff':'Corra!','jungle.levelJungle':'Selva','jungle.levelStad':'Cidade','jungle.levelLucht':'Céu',
+    'jungle.swingOn':'Balance!','jungle.swingOff':'Corra!','jungle.powerSpeed':'⚡ {n}s','jungle.popSpeed':'TURBO!','jungle.popSpeedSub':'5 segundos superrápido · moedas em dobro','jungle.labelSpeed':'TURBO!',
     'jungle.canvasLabel':'Campo de jogo. Setas para a esquerda e direita para virar. Espaço para pular.','jungle.pause':'Pausar','jungle.sound':'Som ligado ou desligado','jungle.controls':'Controles do jogo','jungle.left':'Esquerda','jungle.right':'Direita','jungle.jump':'Salto ↑',
     'jungle.loading':'Preparando sua aventura…','jungle.loadErrorTitle':'Tente de novo','jungle.loadErrorBody':'As imagens da selva não carregaram. Verifique sua conexão e tente de novo.',
     'jungle.intro':'Siga a trilha dourada.<br>Pule, explore e colecione!','jungle.legendMagnet':'🧲 Ímã','jungle.legendShield':'🛡 Escudo','jungle.legendGold':'★ Ouro +5','jungle.legendDouble':'×2 Estrela bônus',

diff --git a/games-jungle.js b/games-jungle.js
@@ -17,7 +17,7 @@
   // Every string the runner shows, in the app language (game.js keys → i18n keys).
   const textTable=()=>{
     const map={};
-    for(const key of ['brand','eyebrow','title','titleA','titleB','back','levelLabel','heroLabel','heroBoy','heroGirl','glideOn','glideOff','levelJungle','levelStad','levelLucht','canvasLabel','pause','sound','controls','left','right','jump','loading','loadErrorTitle','intro','legendMagnet','legendShield','legendGold','legendDouble','easy','music','on','off','start','help','countFollow','countReady','pauseEyebrow','pauseTitle','pauseBody','resume','exit','hit','cardFound','powerDouble','powerMagnet','powerShield','powerStreak','popDouble','popDoubleSub','popGold','popGoldSub','popCombo','popComboSub','popMagnet','popMagnetSub','popShield','popShieldSub','popBlock','popBlockSub','popCard','popCardSub','popClear','popClearSub','labelGold','labelCombo','labelCard','labelClear','labelMagnet','labelShield','labelBlock','labelDouble','saving','saved','saveError','finishEyebrow','finish','finishSub','coinsEarned','bestStreak','bonusCoins','cardAlt','cardEyebrow','cardSub','cardTitle','retry','take','again'])map[key]=t('jungle.'+key);
+    for(const key of ['brand','eyebrow','title','titleA','titleB','back','levelLabel','heroLabel','heroBoy','heroGirl','glideOn','glideOff','swingOn','swingOff','powerSpeed','popSpeed','popSpeedSub','labelSpeed','levelJungle','levelStad','levelLucht','canvasLabel','pause','sound','controls','left','right','jump','loading','loadErrorTitle','intro','legendMagnet','legendShield','legendGold','legendDouble','easy','music','on','off','start','help','countFollow','countReady','pauseEyebrow','pauseTitle','pauseBody','resume','exit','hit','cardFound','powerDouble','powerMagnet','powerShield','powerStreak','popDouble','popDoubleSub','popGold','popGoldSub','popCombo','popComboSub','popMagnet','popMagnetSub','popShield','popShieldSub','popBlock','popBlockSub','popCard','popCardSub','popClear','popClearSub','labelGold','labelCombo','labelCard','labelClear','labelMagnet','labelShield','labelBlock','labelDouble','saving','saved','saveError','finishEyebrow','finish','finishSub','coinsEarned','bestStreak','bonusCoins','cardAlt','cardEyebrow','cardSub','cardTitle','retry','take','again'])map[key]=t('jungle.'+key);
     map.loadError=t('jungle.loadErrorBody');map.savedNoHost=map.saved;
     return map;
   };

diff --git a/assets/games/jungle/arcade-icons.js b/assets/games/jungle/arcade-icons.js
@@ -1,7 +1,7 @@
 // Pickup badges drawn on the canvas: a glossy sphere with a soft glow, a
 // floating bob and a glyph — no generated image quota or external dependencies.
 export function badge(g,kind,x,y,size,time=0){g.save();g.translate(x,y-size*.52-Math.sin(time*3+x*.01)*size*.06);const r=size*.5;
-const colors=kind==='magnet'?['#ffb3f2','#e15bd4','#6b2fb8']:kind==='shield'?['#c8fbff','#3dd2ff','#0b6fc2']:['#fff6b3','#ffcf3a','#d98a0f'];
+const colors=kind==='magnet'?['#ffb3f2','#e15bd4','#6b2fb8']:kind==='shield'?['#c8fbff','#3dd2ff','#0b6fc2']:kind==='speed'?['#fff0b0','#ff9a2e','#c4361c']:['#fff6b3','#ffcf3a','#d98a0f'];
 // soft outer glow (gradient, no hard edge)
 const glow=g.createRadialGradient(0,0,r*.6,0,0,r*1.7);glow.addColorStop(0,colors[1]+'66');glow.addColorStop(.6,colors[1]+'22');glow.addColorStop(1,colors[1]+'00');g.fillStyle=glow;g.beginPath();g.arc(0,0,r*1.7,0,Math.PI*2);g.fill();
 // glossy sphere
@@ -11,6 +11,7 @@ g.fillStyle='#ffffffaa';g.beginPath();g.ellipse(-r*.32,-r*.45,r*.26,r*.16,-.6,0,
 g.strokeStyle='#fff';g.fillStyle='#fff';g.lineWidth=size*.12;g.lineCap='round';g.lineJoin='round';g.shadowColor='#00000055';g.shadowBlur=size*.06;g.shadowOffsetY=size*.03;
 if(kind==='magnet'){g.beginPath();g.moveTo(-r*.4,-r*.35);g.lineTo(-r*.4,r*.1);g.arc(0,r*.1,r*.4,Math.PI,0,true);g.lineTo(r*.4,-r*.35);g.stroke();g.shadowBlur=0;g.strokeStyle='#ff6b6b';g.lineWidth=size*.12;for(const sign of[-1,1]){g.beginPath();g.moveTo(sign*r*.4,-r*.36);g.lineTo(sign*r*.4,-r*.16);g.stroke();}}
 else if(kind==='shield'){g.beginPath();g.moveTo(0,-r*.58);g.lineTo(r*.48,-r*.33);g.lineTo(r*.39,r*.26);g.quadraticCurveTo(r*.2,r*.52,0,r*.65);g.quadraticCurveTo(-r*.2,r*.52,-r*.39,r*.26);g.lineTo(-r*.48,-r*.33);g.closePath();g.fill();g.shadowBlur=0;g.strokeStyle='#1575c9';g.lineWidth=size*.055;g.beginPath();g.moveTo(-r*.2,0);g.lineTo(-r*.03,r*.17);g.lineTo(r*.25,-r*.19);g.stroke();}
+else if(kind==='speed'){g.fillStyle='#fff';g.beginPath();g.moveTo(r*.12,-r*.62);g.lineTo(-r*.34,r*.06);g.lineTo(-r*.02,r*.06);g.lineTo(-r*.14,r*.62);g.lineTo(r*.36,-r*.1);g.lineTo(r*.04,-r*.1);g.closePath();g.fill();}
 else{g.shadowBlur=0;g.fillStyle='#7a4a08';g.font=`1000 ${size*.4}px system-ui`;g.textAlign='center';g.textBaseline='middle';g.fillText(kind==='double'?'×2':'+5',0,r*.02);}
 g.restore();}
 

diff --git a/assets/games/jungle/style.css b/assets/games/jungle/style.css
@@ -30,10 +30,10 @@
 /* hero cards: the whole card is the character's colour world, the sprite bursts out of the top */
 .start .heroes{flex:1.8 1 0;min-height:110px;max-height:300px;gap:12px;margin:0}
 /* the cards show the chosen level behind the hero, as if the child is already running there */
-.start .heroes button{position:relative;flex:1;height:auto;display:block;padding:0;border-radius:20px;border:2px solid #ffffff44;overflow:hidden;background-size:cover;background-position:center 30%;box-shadow:0 8px 18px #0006}
+.start .heroes button{position:relative;flex:1;height:auto;display:block;padding:0;border-radius:20px;border:2px solid #ffffff44;overflow:hidden;background-size:cover;background-position:center 58%;box-shadow:0 8px 18px #0006}
 .start .heroes button::before{content:"";position:absolute;inset:0;background:linear-gradient(180deg,#0b3a5533 0%,#0b3a5500 35%,#041a2ab8 100%)}
 .start .heroes .hero-girl::before{background:linear-gradient(180deg,#4a1a5c33 0%,#4a1a5c00 35%,#2a0a3ab8 100%)}
-.start .heroes i{position:absolute;inset:6% 6% 25% 6%;display:flex;align-items:flex-end;justify-content:center;background:none;border-radius:0}
+.start .heroes i{position:absolute;inset:8% 8% 27% 8%;display:flex;align-items:flex-end;justify-content:center;background:none;border-radius:0}
 .start .heroes img{width:100%;height:100%;max-height:none;object-fit:contain;object-position:center bottom;filter:drop-shadow(0 6px 8px #0009)}
 .start .heroes span{position:absolute;left:8px;right:8px;bottom:8px;margin:0;padding:6px 0;border-radius:999px;background:#ffffff1c;font-size:13px;font-weight:1000;letter-spacing:.3px}
 .start .heroes button[aria-pressed=true]{border:3px solid #ffcf43;box-shadow:0 0 0 3px #ffc93644,0 0 22px #ffc93677}

diff --git a/assets/games/jungle/audio.js b/assets/games/jungle/audio.js
@@ -15,6 +15,7 @@ export class GameAudio {
  else if(kind==='clear'){this.tone(784,.12,'triangle',.09);this.tone(1046,.17,'sine',.1,1,.08);}
  else if(kind==='hit'){this.tone(140,.2,'sine',.22,.25);this.noise(.12,.11);}
  else if(kind==='double'){[523,784,1046,1568,2093].forEach((f,i)=>this.tone(f,.23,'triangle',.12,1,i*.075));this.noise(.18,.05);}
+ else if(kind==='speed'){this.tone(220,.55,'sawtooth',.09,6);this.tone(440,.4,'square',.05,4,.08);this.noise(.35,.06);}
  else if(kind==='land'){this.tone(100,.07,'sine',.12,.5);this.noise(.045,.045);}
  else if(kind==='finish'){[523,659,784,1046,784,1046,1318].forEach((f,i)=>this.tone(f,.3,'triangle',.09,1,i*.13));}
  else if(kind==='card'){[659,988,1318,1976].forEach((f,i)=>this.tone(f,.35,'sine',.1,1,i*.12));}

diff --git a/RUNNER_ASSETS.md b/RUNNER_ASSETS.md
@@ -59,3 +59,12 @@ boom, varen, brug, kaart). Alleen `hero-boy-glide.png` mist nog, maar de jungle 
   de held hangt dan aan de deltavlieger, munten en vogels zweven in de lucht,
   daarna land je weer op de wolken.
 - De baan buigt nu ook in bochten (alle levels).
+
+## 5. Nog te maken (na de dev-pack van 18 sept)
+
+| Bestand | Maat | Inhoud |
+|---|---|---|
+| `hero-boy-portrait.png`, `hero-girl-portrait.png` | ±600×700, transparant | portret **van voren** (glimlach, zwaaien) voor de keuzekaarten op het startscherm |
+| `hero-boy-swing.png`, `hero-girl-swing.png` | 384×560, transparant | hangend aan een liaan met beide handen boven het hoofd, van achteren, benen los (jungle-slingerstukken; tot dan wordt de sprongpose gebruikt) |
+
+Nieuw in het spel: **Turbo** (⚡-bol: 5 seconden supersnel, alle munten dubbel) in elk level, en in de jungle twee **slingerstukken** aan een liaan boven een ravijn (30–41 % en 70–81 % van de rit).
